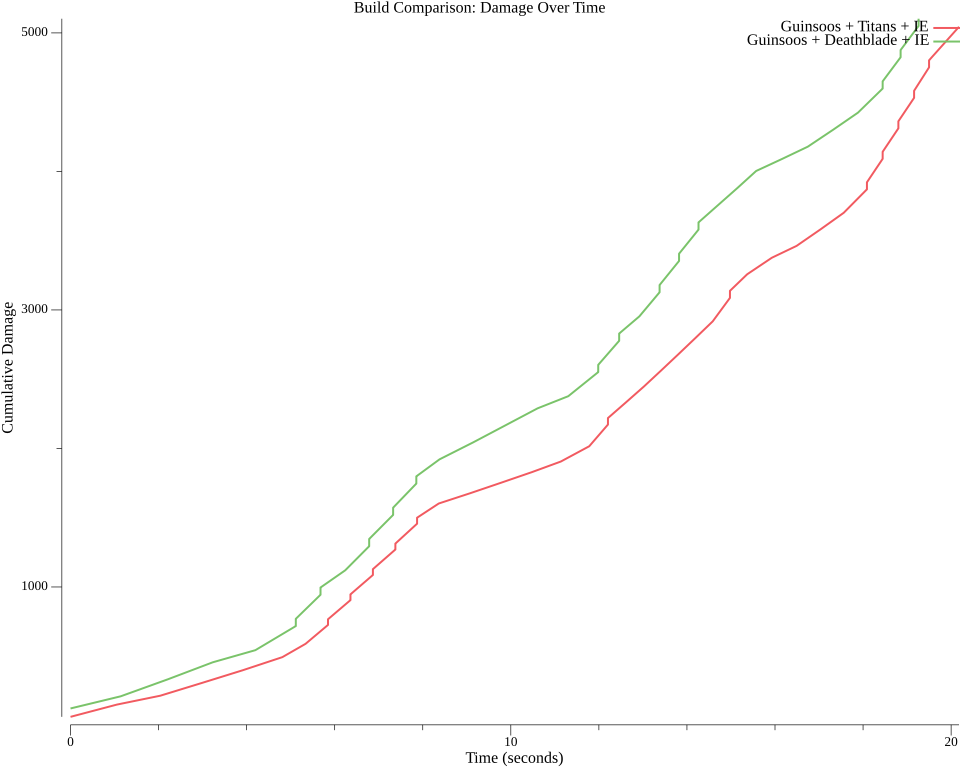
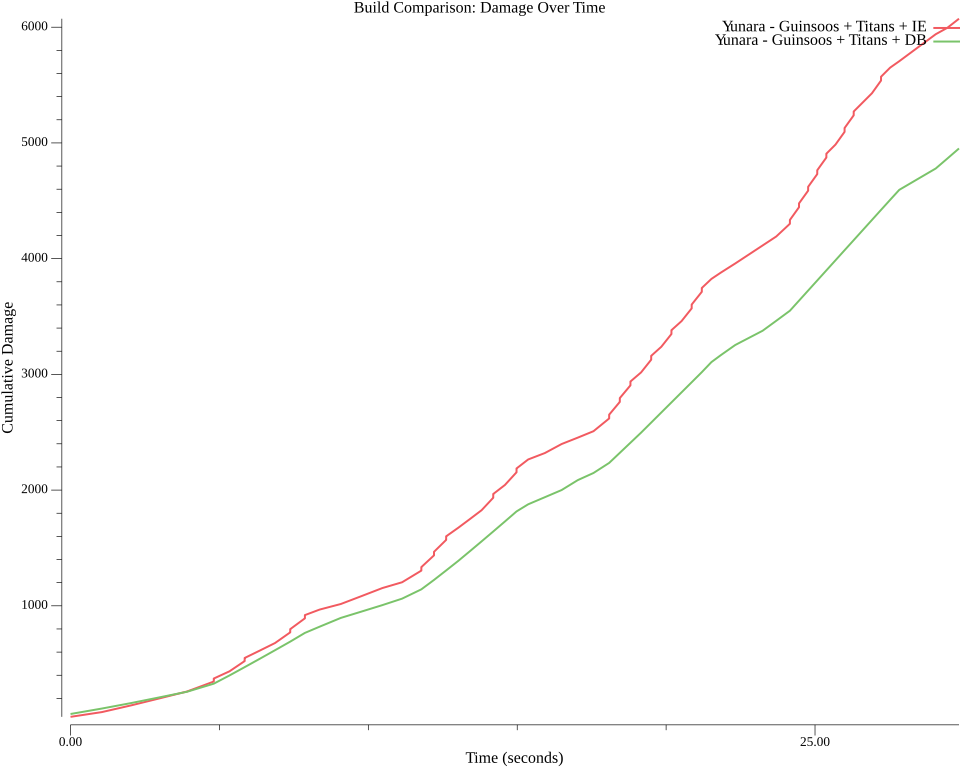
Remove other pngs

diff --git a/main.go b/main.go
@@ -31,7 +31,7 @@ func runSimulation(buildName string, itemNames []string) (sim.SimulationResult, 
 
 	// Create targets
 	targets := []*models.Target{
-		models.NewTarget("Frontline Tank", 5000, 30, 50),
+		models.NewTarget("Frontline Tank", 50000, 100, 50),
 	}
 
 	// Create and run simulation
@@ -51,18 +51,20 @@ func runSimulation(buildName string, itemNames []string) (sim.SimulationResult, 
 func main() {
 	fmt.Println("=== TFT Simulation Build Comparison ===")
 
+	generateIndividual := false
+
 	// Define the two builds to compare
 	builds := []struct {
 		name      string
 		itemNames []string
 	}{
 		{
-			name:      "Guinsoos + Titans + IE",
+			name:      "Yunara - Guinsoos + Titans + IE",
 			itemNames: []string{"Guinsoos", "Titans", "IE"},
 		},
 		{
-			name:      "Guinsoos + Deathblade + IE",
-			itemNames: []string{"Guinsoos", "Deathblade", "IE"},
+			name:      "Yunara - Guinsoos + Titans + DB",
+			itemNames: []string{"Guinsoos", "Titans", "Deathblade"},
 		},
 	}
 
@@ -125,16 +127,18 @@ func main() {
 	}
 
 	// Also generate individual charts for each build
-	for i, result := range allResults {
-		buildName := strings.ReplaceAll(strings.ToLower(buildLabels[i]), " + ", "_")
-		buildName = strings.ReplaceAll(buildName, " ", "_")
+	if generateIndividual {
+		for i, result := range allResults {
+			buildName := strings.ReplaceAll(strings.ToLower(buildLabels[i]), " + ", "_")
+			buildName = strings.ReplaceAll(buildName, " ", "_")
 
-		// Generate cumulative damage chart for this build
-		cumulativeChart := filepath.Join(outputDir, fmt.Sprintf("%s_damage_over_time.png", buildName))
-		if err := output.GenerateDamageChart(result, cumulativeChart); err != nil {
-			fmt.Printf("Failed to generate cumulative damage chart for %s: %v\n", buildLabels[i], err)
-		} else {
-			fmt.Printf("✓ Individual chart for %s saved to: %s\n", buildLabels[i], cumulativeChart)
+			// Generate cumulative damage chart for this build
+			cumulativeChart := filepath.Join(outputDir, fmt.Sprintf("%s_damage_over_time.png", buildName))
+			if err := output.GenerateDamageChart(result, cumulativeChart); err != nil {
+				fmt.Printf("Failed to generate cumulative damage chart for %s: %v\n", buildLabels[i], err)
+			} else {
+				fmt.Printf("✓ Individual chart for %s saved to: %s\n", buildLabels[i], cumulativeChart)
+			}
 		}
 	}
 
